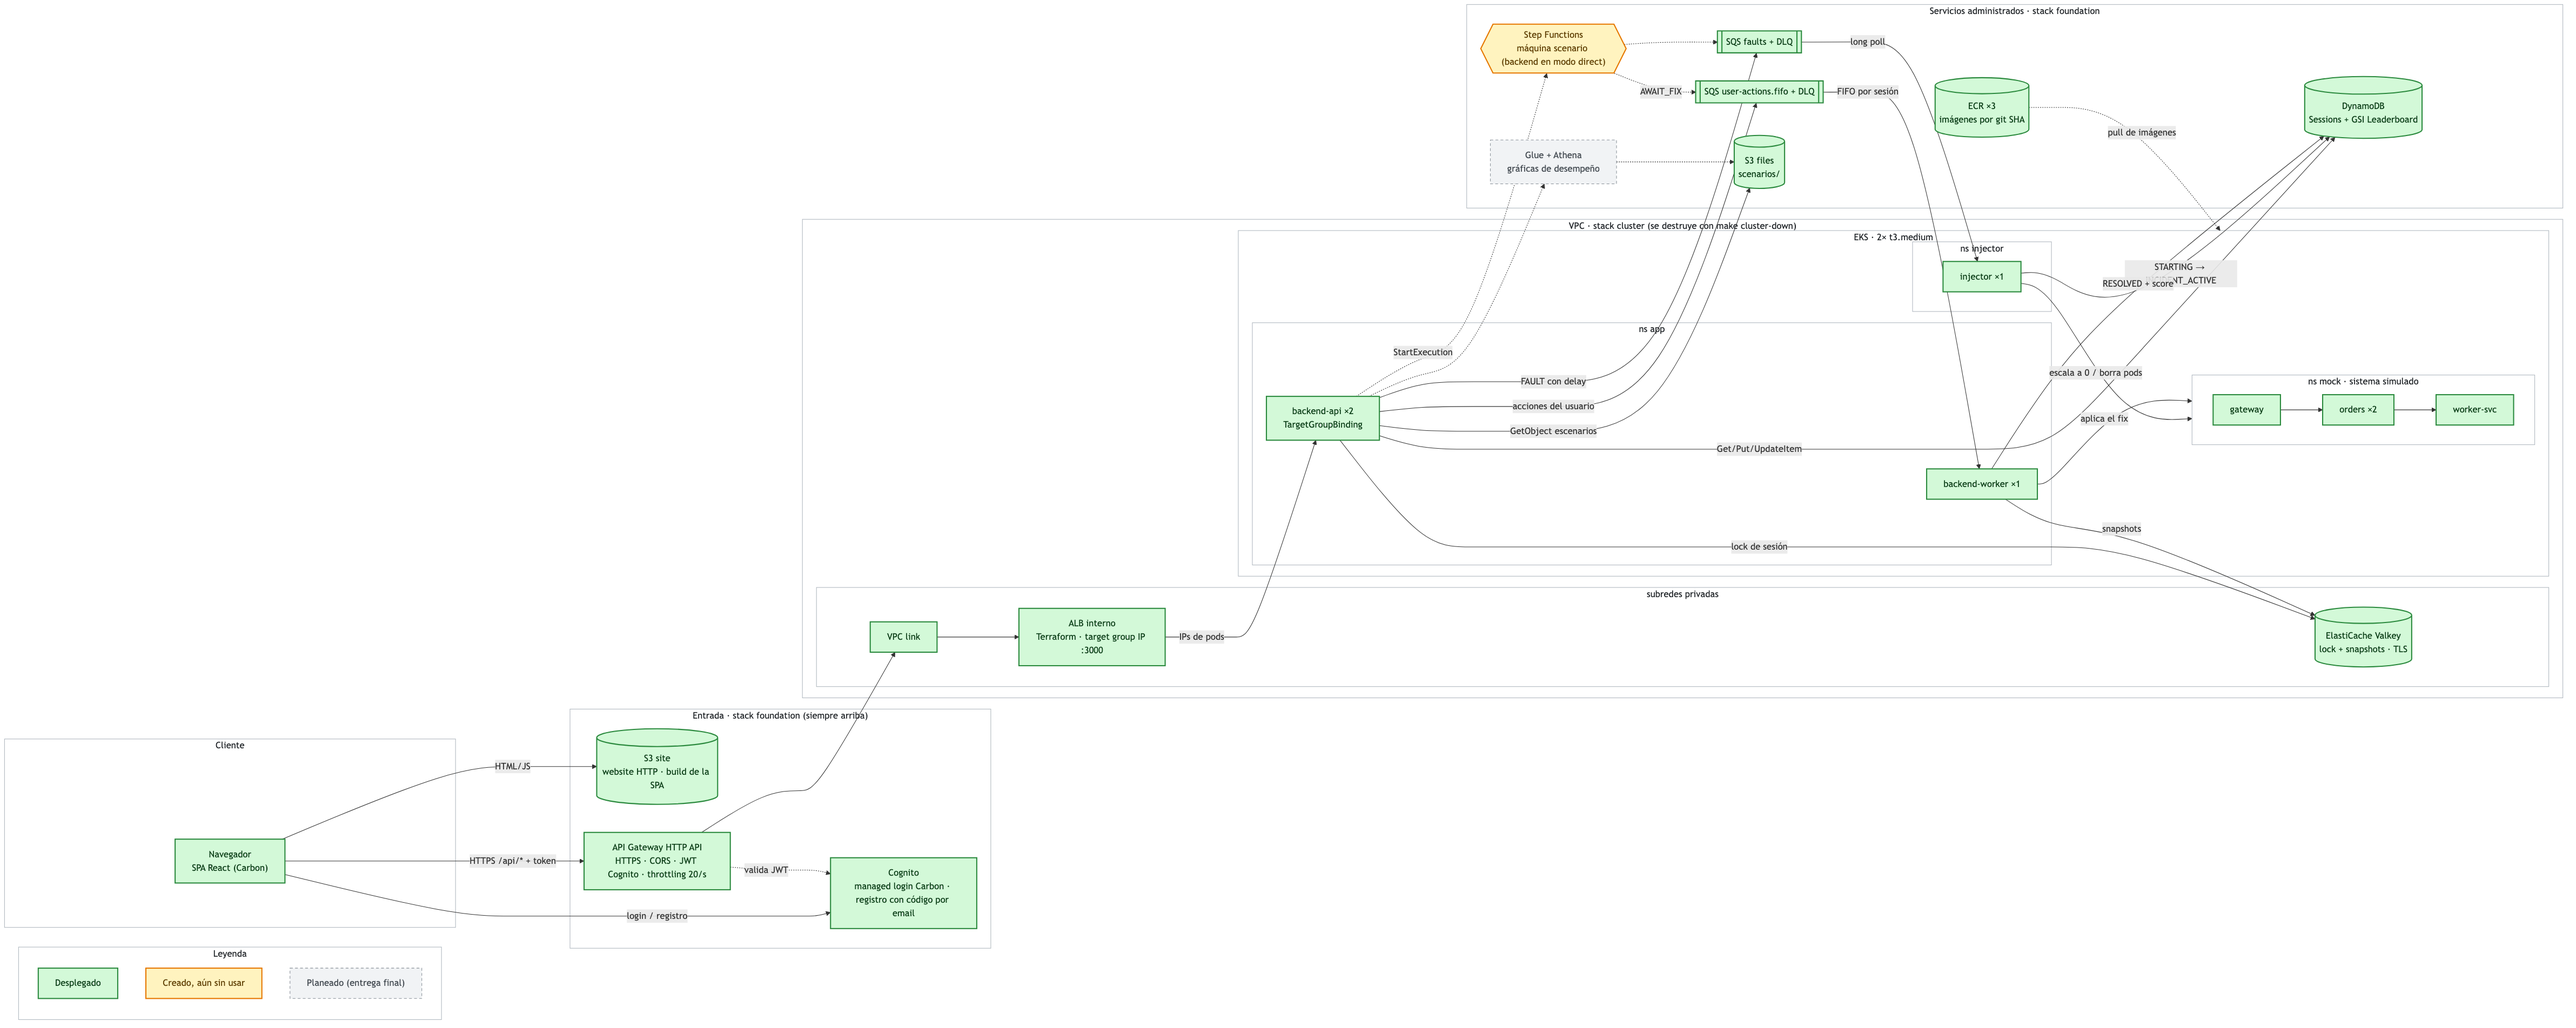
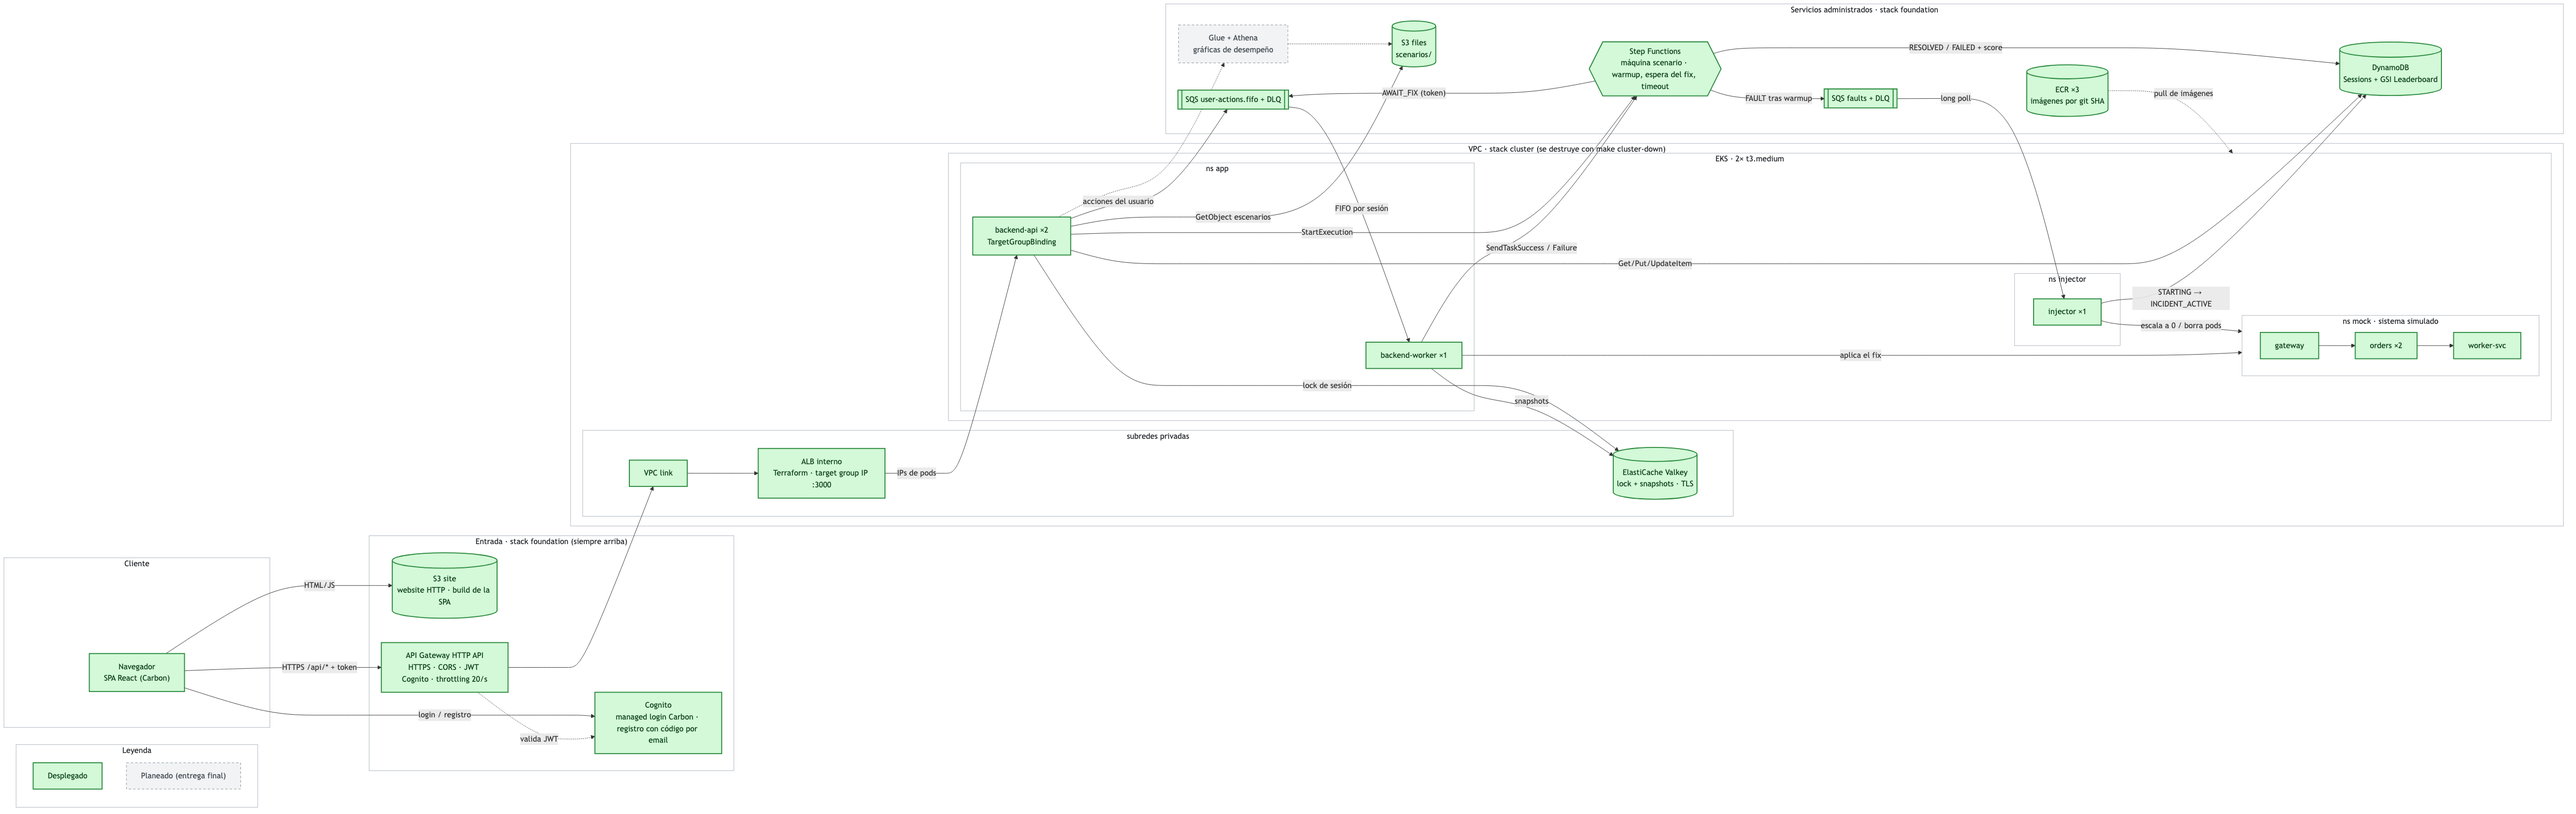
feat: Step Functions as the default orchestration mode (D-36) (#161)
* feat: Step Functions as the default orchestration mode (D-36)

* docs: Step Functions deployed in the diagram and status (D-36)

diff --git a/docs/ARCHITECTURE.md b/docs/ARCHITECTURE.md
@@ -3,7 +3,7 @@
 Living document, and the source of truth for every AWS resource, Kubernetes object and cross-repo contract this repo owns.
 Items marked **(planned)** aren't built yet. Items marked **(cross-repo)** are used by another repo; change them only together with that repo's owner.
 
-**Built and deployed today:** the whole foundation except Glue/Athena: S3 files and site buckets, DynamoDB `Sessions`, both SQS queues, ECR, Cognito (Carbon managed login, self sign-up, D-34, D-35) and the HTTP API (D-33). The whole cluster stack: EKS, the internal ALB behind the API's VPC link, ElastiCache; the backend, injector and mock system on EKS. The SPA is on the S3 website. The incident loop runs in **direct mode** (§15). **Built, not yet used:** the Step Functions state machine (the backend still runs `ORCHESTRATION_MODE=direct`). **Planned for the final delivery:** Glue/Athena, NetworkPolicies on EKS (enforced on kind already, §5.3) and the GitHub workflows. The kind setup (§14) runs the mock system and the injector locally. The diagram in [`solucion.png`](solucion.png) shows the same split.
+**Built and deployed today:** the whole foundation except Glue/Athena: S3 files and site buckets, DynamoDB `Sessions`, both SQS queues, ECR, Cognito (Carbon managed login, self sign-up, D-34, D-35) and the HTTP API (D-33). The whole cluster stack: EKS, the internal ALB behind the API's VPC link, ElastiCache; the backend, injector and mock system on EKS. The SPA is on the S3 website. The Step Functions state machine runs each scenario (D-36); direct mode stays as a fallback (§15). **Planned for the final delivery:** Glue/Athena, NetworkPolicies on EKS (enforced on kind already, §5.3) and the GitHub workflows. The kind setup (§14) runs the mock system and the injector locally. The diagram in [`solucion.png`](solucion.png) shows the same split.
 
 ## 1. Overview
 
@@ -369,19 +369,17 @@ Runs the mock system and the injector in kind; the backend runs on the host (DEC
 - The backend on the host talks to kind with `MOCK_CLUSTER=kubernetes` and the kind kubeconfig. The mock services' health URLs (`*.mock.svc.cluster.local`) aren't reachable from the host, so the backend needs a port-forward or its own local override for them.
 - The local state machine: the backend keeps a copy at `local/statemachine.asl.json`. When `statemachines/scenario.asl.json` changes, tell the backend owner (or open a PR there).
 
-## 15. Current deployment: direct mode
+## 15. Direct mode (fallback)
 
-What runs today, until the planned services above are in place (DECISIONS D-25). The contracts in §6–9 don't change; only who does each step.
+Since 2026-11-26 `render-config` defaults to `ORCHESTRATION_MODE=stepfunctions`: the state machine (§6) sends `FAULT`, waits for the fix with the `AWAIT_FIX` token, writes the end state and sends `SESSION_ENDED` (backend D-32). `ORCHESTRATION_MODE=direct make render-config` (then `make deploy`) switches back to the Nov 5 MVP path, kept as a fallback (D-25). The contracts in §6–9 are the same in both modes; only who does each step changes.
 
-| Final design | Today |
-|---|---|
-| The state machine sends `FAULT` to `faults` after `Warmup` (§6) | The backend api sends the same `FAULT` (§7) to `faults` itself, with `DelaySeconds` for the warmup (backend D-24) |
-| `PersistResolved` / `MarkFailed` write the end state; `SESSION_ENDED` triggers the reset | The backend worker writes `RESOLVED` / `FAILED` and resets the mock system |
-| ElastiCache: lock, dashboard snapshots, event buffer | None. One demo user; the api builds the dashboard on each request |
-| Cognito | `AUTH_MODE=cognito` (`render-config.sh` writes it from the foundation outputs); `AUTH_MODE=dev` with `ALLOW_DEV_AUTH=true` only when they're missing. Frontend: `VITE_AUTH_MODE=dev` today |
-| Browser → HTTP API → internal ALB (§11, D-33) | The SPA's Vite dev proxy → ALB (`API_PROXY_TARGET`, frontend D-18) |
+| Step | `stepfunctions` (default) | `direct` (fallback) |
+|---|---|---|
+| Send `FAULT` after the warmup | `Warmup` + `InjectFault` (§6) | the backend api, with `DelaySeconds` for the warmup (backend D-24) |
+| Wait for the fix | `WaitForFix` (`AWAIT_FIX` token; the worker answers with `SendTaskSuccess`/`SendTaskFailure`) | the backend worker's monitor |
+| Write `RESOLVED` / `FAILED` | `PersistResolved` / `MarkFailed` | the backend worker |
+| Timeouts | `WaitForFix` after `maxResolveSeconds` → `FAILED`/`TIMEOUT` | the worker's monitor (backend D-31) |
+| Reset the mock system | the worker, on `SESSION_ENDED` | the worker, after writing the end state |
 
-- **Config:** the backend gets `ORCHESTRATION_MODE=direct` and `FAULTS_QUEUE_URL`, plus the auth switch of §5.4. `REDIS_URL` (backend and injector) appears once the cluster stack with ElastiCache is applied: `render-config.sh` writes it from `redis_endpoint`, and both services then switch to the Redis lock, event log and snapshots.
-- The api needs `sqs:SendMessage` on `faults`; LabRole allows it.
-- Step Functions is deployed but not used yet: `render-config` writes `STATE_MACHINE_ARN`, and `ORCHESTRATION_MODE=stepfunctions make render-config` switches the backend once it handles `AWAIT_FIX`.
-- Not deployed yet: ElastiCache, Cognito, the site bucket and NetworkPolicies.
+- **Config:** `stepfunctions` needs `STATE_MACHINE_ARN` (from the foundation outputs); `direct` needs `FAULTS_QUEUE_URL`. `render-config` writes both.
+- The api needs `states:StartExecution` and the worker `states:SendTaskSuccess`/`SendTaskFailure`; LabRole allows them.

diff --git a/docs/DECISIONS.md b/docs/DECISIONS.md
@@ -38,7 +38,7 @@ Add a new entry whenever something is decided or changed; don't rewrite history.
 | D-22 | 2026-10-22 | The e2e Cognito user is created by a script, not Terraform | Decided (answers frontend O-04) |
 | D-23 | 2026-10-22 | Docs written in English | Decided |
 | D-24 | 2026-10-27 | S3 buckets use `awscc_s3_bucket` (Cloud Control), not `aws_s3_bucket` | Decided (forced by Learner Lab) |
-| D-25 | 2026-10-27 | Nov 5 MVP: one incident loop on EKS without Step Functions, ElastiCache, Cognito or CloudFront | Decided (temporary until Nov 19) |
+| D-25 | 2026-10-27 | Nov 5 MVP: one incident loop on EKS without Step Functions, ElastiCache, Cognito or CloudFront | Superseded (D-31, D-33, D-36); direct mode kept as a fallback |
 | D-26 | 2026-11-01 | EKS access: one explicit access entry for the lab role; no automatic creator entry | Decided |
 | D-27 | 2026-11-01 | Image tags and account-specific values reach the aws overlay through Kustomize replacements | Decided |
 | D-28 | 2026-11-05 | No API Gateway: CloudFront is the edge, the ALB routes to the pods | Superseded by D-33 |
@@ -49,6 +49,7 @@ Add a new entry whenever something is decided or changed; don't rewrite history.
 | D-33 | 2026-11-26 | API Gateway HTTP API (foundation, stable HTTPS URL, JWT, throttling, CORS) → VPC link → internal ALB owned by Terraform; pods registered with a TargetGroupBinding | Decided |
 | D-34 | 2026-11-26 | Managed login version 2 with Carbon g100 branding in Terraform, instead of a custom sign-in UI | Decided |
 | D-35 | 2026-11-26 | Self sign-up on the managed login page: username, email and password, email verified with a code | Decided |
+| D-36 | 2026-11-26 | Step Functions runs every scenario: `render-config` defaults to `ORCHESTRATION_MODE=stepfunctions`; direct mode is a fallback | Decided |
 
 ---
 
@@ -214,6 +215,11 @@ All are implemented as described in ARCHITECTURE §6–7 and §11.
 **Why:** inviting every student by hand with `make users` doesn't scale for the course demo; users should create their own accounts.
 **How:** `allow_admin_create_user_only = false`. The managed login page (D-34) shows "Create an account": username, email, password. Cognito emails a code (`CONFIRM_WITH_CODE`) and the account stays UNCONFIRMED until it is entered, so every account has a verified email for password recovery. Email changes also need the code before they apply. Sign-in stays by username (switching to email sign-in would mean a new user pool). `make users` and `make e2e-user` keep working.
 **Trade-off:** anyone with the site URL can create an account and start a session, which holds the global session lock until it resolves or times out (D-32's reason for admin-only accounts). Bounded by the lock's TTL, the API throttling (D-33) and Cognito's default sender, about 50 emails a day. If abuse shows up: switch back to admin-only, or add a pre-sign-up Lambda that allows one email domain (needs a role, so not in the Learner Lab).
+
+### D-36 · Step Functions as the default orchestration
+**Why:** the backend has handled `AWAIT_FIX` since backend D-32, so the reason for direct mode (D-25) is gone. The state machine owns the warmup, the timeout and the end state, and its execution history shows each session step by step.
+**How:** `render-config.sh` defaults `ORCHESTRATION_MODE` to `stepfunctions`; `ORCHESTRATION_MODE=direct make render-config` and `make deploy` switch back (ARCHITECTURE §15). No Terraform change: the state machine was already in foundation.
+**Verified on EKS (2026-11-26, backend 3766f39):** resolve (InjectFault → WaitForFix → PersistResolved → NotifyEnded, score written by the state machine); abandon after the fault (`SendTaskFailure` → MarkFailed → `FAILED`/`ABANDONED`, mock system reset); abandon during the warmup (session ends at once, the injector skips the FAULT, the execution still ends on the failure branch); timeout after `maxResolveSeconds` (`FAILED`/`TIMEOUT`).
 
 ---
 

diff --git a/README.md b/README.md
@@ -26,7 +26,7 @@ Un usuario inicia el escenario `orders-down`. El backend guarda la sesión en Dy
 
 ![Diagrama de la solución](docs/solucion.png)
 
-Verde: desplegado. Amarillo: creado, aún sin usar. Gris punteado: planeado para la entrega final. Fuente editable en [`docs/solucion.mmd`](docs/solucion.mmd) (`make diagram`).
+Verde: desplegado. Gris punteado: planeado para la entrega final. Fuente editable en [`docs/solucion.mmd`](docs/solucion.mmd) (`make diagram`).
 
 ### Repositorios
 
